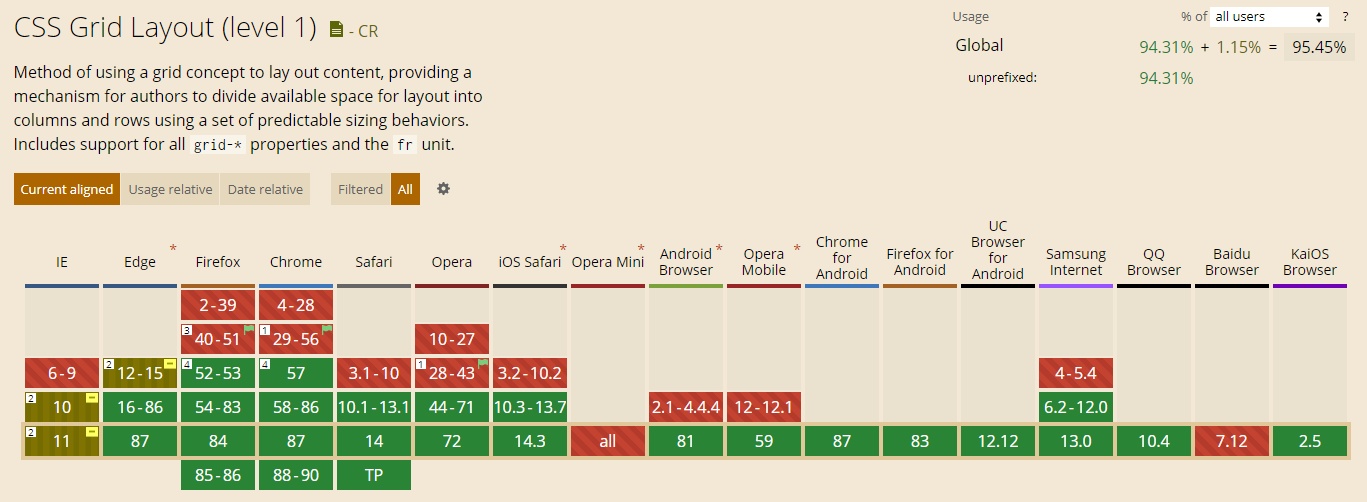
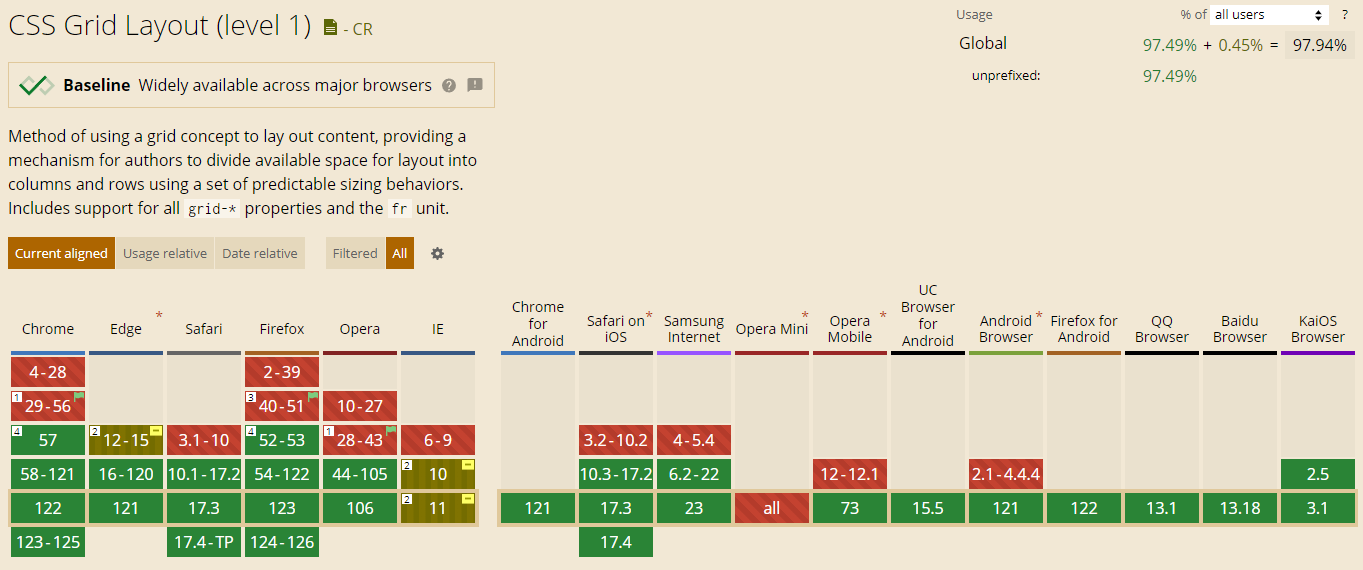
update README.md and bugfix

diff --git a/index.html b/index.html
@@ -112,7 +112,7 @@
          </dl>
          <h2 id="title3">3. Поддержка браузерами</h2>
          <p>В данный момент почти все современные браузеры поддерживают Grid CSS без необходимости указывать
-            дополнительные префиксы и покрывают 95.45% всех устройств.</p>
+            дополнительные префиксы и покрывают 97.94% всех устройств.</p>
          <a href="https://caniuse.com/#feat=css-grid" target="_blank">Посмотреть на сайте Can I use</a>
          <img src="img/caniuse.png" alt="">
          <h2 id="title4">4. Свойства для контейнера</h2>
@@ -192,15 +192,19 @@
                   <li>. - точка обозначающая пустую ячейку</li>
                   <li>none - области не определены</li>
                </ul>
-               <p class="codepen" data-height="365" data-theme-id="0" data-default-tab="css,result" data-user="itdoctor"
-                  data-slug-hash="YbzxwX"
-                  style="height: 265px; box-sizing: border-box; display: flex; align-items: center; justify-content: center; border: 2px solid; margin: 1em 0; padding: 1em;"
-                  data-pen-title="Grid Ex1">
-                  <span>See the Pen <a href="https://codepen.io/itdoctor/pen/YbzxwX/">
-                        Grid Ex1</a> by ismail (<a href="https://codepen.io/itdoctor">@itdoctor</a>)
-                     on <a href="https://codepen.io">CodePen</a>.</span>
-               </p>
-               <script async src="https://static.codepen.io/assets/embed/ei.js"></script>
+               <b>Пример:</b>
+               <pre>
+.container {
+   display: grid;
+   grid-template-columns: 1fr 200px 1fr;
+   grid-template-rows: repeat(4, 150px);
+   grid-template-areas:
+      "header header header"
+      "content content ."
+      "content content ."
+      "footer footer footer";
+}
+               </pre>
             </dd>
          </dl>
          <dl id="prop_4">
@@ -228,7 +232,6 @@
                   1fr 1fr 1fr - ширина столбцов<br>
                   */
                </ul>
-
             </dd>
          </dl>
          <dl id="prop_5">
@@ -457,10 +460,10 @@
             </dd>
          </dl>
          <footer><a href="#title1"><i class="icon-up-circle"></i></a>
-            <a href="https://www.youtube.com/c/ITDoctor?sub_confirmation=1" target="blank" class="copy">&copy; 2019 ITDoctor </a>
-            <a href="https://github.com/morphIsmail/css-grid-manual" target="blank"><i class="icon-github-circled"></i></a>
-            <a href="https://youtu.be/yfDwiukzuUQ" target="blank"><i class="icon-youtube-play"></i></a>
-            <a href="https://vk.com/itdoctorstudio" target="blank"><i class="icon-vkontakte"></i></a>
+            <a href="https://www.youtube.com/c/ITDoctor?sub_confirmation=1" target="_blank" class="copy">&copy; 2024 ITDoctor </a>
+            <a href="https://github.com/morphIsmail/css-grid-manual" target="_blank"><i class="icon-github-circled"></i></a>
+            <a href="https://youtu.be/yfDwiukzuUQ" target="_blank"><i class="icon-youtube-play"></i></a>
+            <a href="https://vk.com/itdoctorstudio" target="_blank"><i class="icon-vkontakte"></i></a>
          </footer>
          <div class="mb"></div>
       </div>

diff --git a/README.md b/README.md
@@ -1,5 +1,19 @@
 # Справочник по CSS Grid
 
-[Видео урок по CSS Grid на канале ITDoctor](https://youtu.be/yfDwiukzuUQ)
+Видео урок по CSS Grid Layout, в котором я расскажу вам про все свойства, мы рассмотрим основы CSS Grid и посмотрим как делается адаптивная верстка страницы. Это введение в CSS Grid, которое позволит понять, что такое сетка и начать верстать без помощи таких фреймворков как Bootstrap, а на чистом CSS.
+
+🎥 [Видео урок по CSS Grid на канале ITDoctor](https://youtu.be/yfDwiukzuUQ)  
+***
+
+Практика по верстке сайта на реальных примерах из Figma в современных реалиях доступна в уроках по ссылкам ниже.
+
+🎥 [Видео урок Верстка сайта по макету из Figma без Dev Mode в бесплатной версии](https://youtu.be/ZGeCNkW7FKw)  
+🎥 [Видео урок Верстка сайта по макету из Figma используя плагин Inspect Styles](https://youtu.be/MoIK7WtUvto)  
+***
+
+Полезные материалы и задания к этим урокам доступны в бесплатном курсе. Регистрируйтесь на Stepik и проходите уроки, выполняйте заданий, практикуйтесь не только в верстке сайтов, но и в работе с Wordpress, реальным хостингом и изучайте многое другое бесплатно.
+
+💾 [Сайт на Wordpress, Верстка сайта и перенос на CMS](https://stepik.org/113393)  
+***
 
 [![GitHub](https://img.shields.io/badge/-Мой_GitHub-333?style=for-the-badge&logo=GitHub&logoColor=fff)](https://github.com/morphIsmail)
